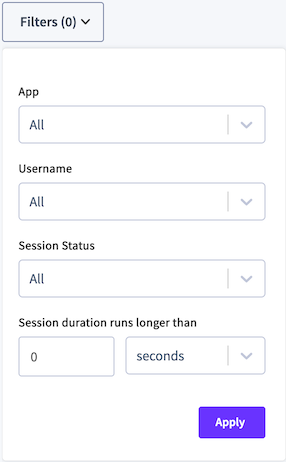
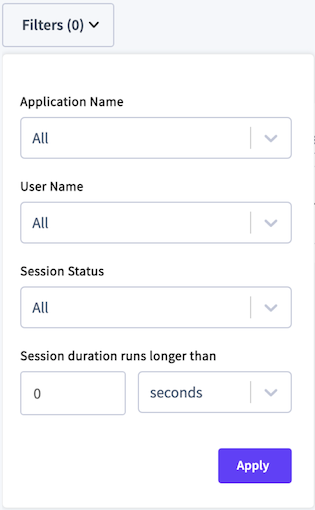
Update filter labels.

diff --git a/_includes/v22.2/ui/sessions.md b/_includes/v22.2/ui/sessions.md
@@ -6,12 +6,12 @@ To filter the sessions, click the **Filters** field.
 
 <img src="{{ 'images/v22.2/ui-session-filter.png' | relative_url }}" alt="Session filter" />
 
-- To filter by [application]({{ link_prefix }}connection-parameters.html#additional-connection-parameters), select **App** and choose one or more applications.
+- To filter by [application]({{ link_prefix }}connection-parameters.html#additional-connection-parameters), select **Application Name** and choose one or more applications.
 
     - Queries from the SQL shell are displayed under the `$ cockroach` app.
     - If you have not set `application_name` in a client connection string, it appears as `unset`.
 
-- To filter by username or session status, select **Username** or **Session Status** and check one or more checkboxes.
+- To filter by username or session status, select **User Name** or **Session Status** and check one or more checkboxes.
 - To filter by session duration, specify the session time and unit.
 
 Click <img src="{{ 'images/common/ui-columns-button.png' | relative_url }}" alt="Column selector" /> to select the columns to display in the table.
